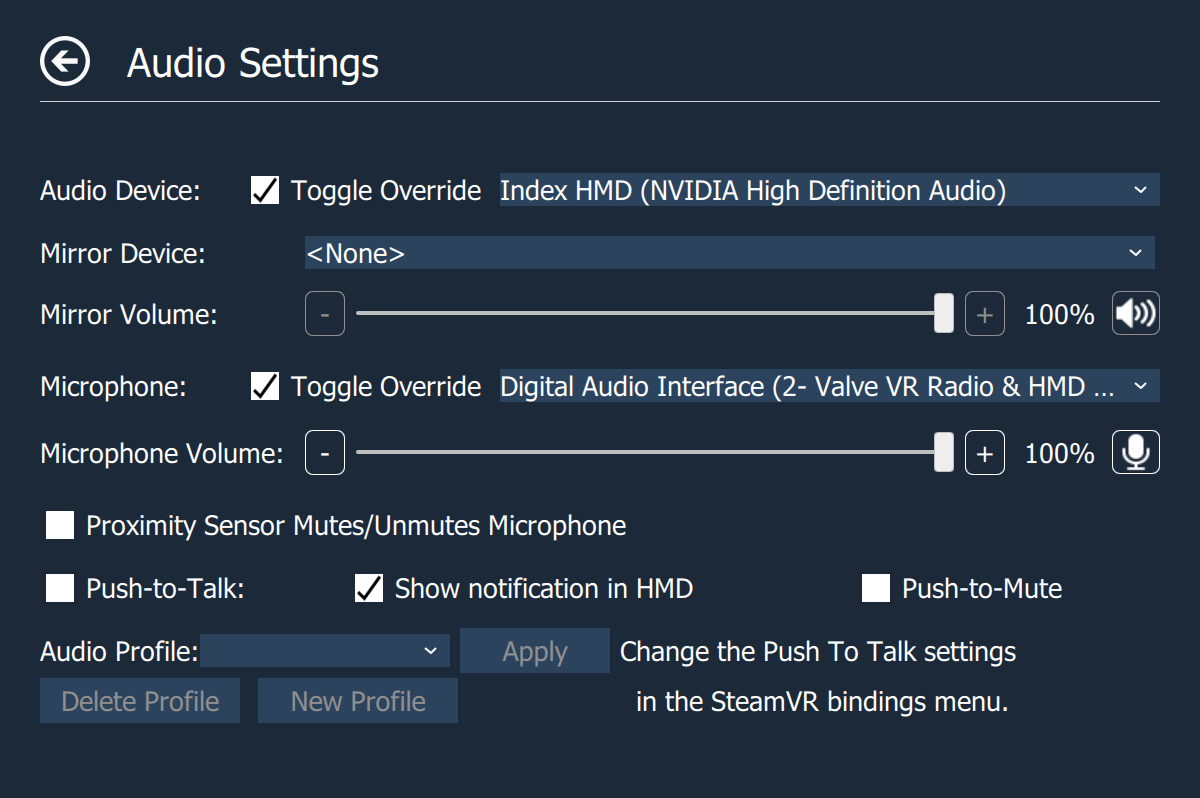
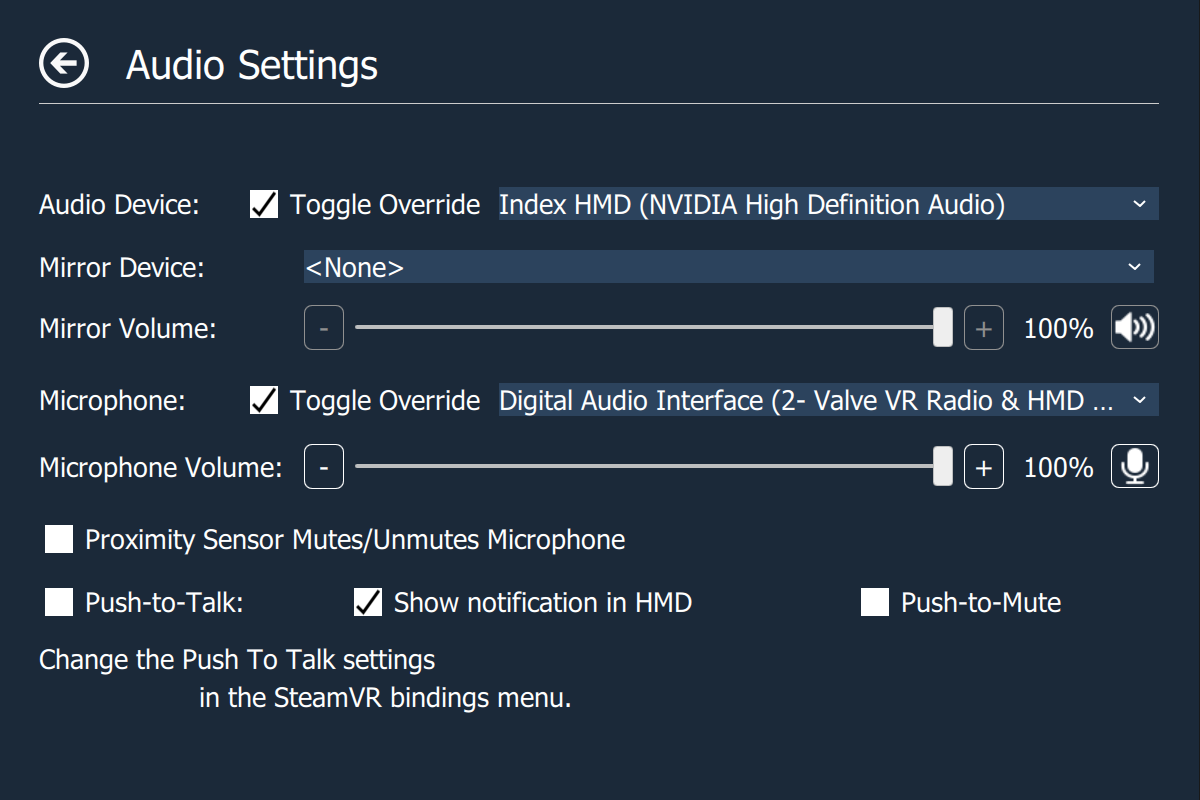
hid audio profiles

diff --git a/src/res/qml/audio_page/profiles/ProfileButtons.qml b/src/res/qml/audio_page/profiles/ProfileButtons.qml
@@ -25,6 +25,7 @@ ColumnLayout {
         MyText {
             Layout.preferredWidth: 150
             text: "Audio Profile:"
+            visible: false
         }
 
         MyComboBox {
@@ -32,6 +33,7 @@ ColumnLayout {
             Layout.preferredWidth: 250
             model: [""]
             enabled: false
+            visible: false
             onCurrentIndexChanged: {
                 if (currentIndex > 0) {
                     audioApplyProfileButton.enabled = true
@@ -46,6 +48,7 @@ ColumnLayout {
         MyPushButton {
             id: audioApplyProfileButton
             enabled: false
+            visible: false
             Layout.preferredWidth: 150
             text: "Apply"
             onClicked: {
@@ -66,6 +69,7 @@ ColumnLayout {
         MyPushButton {
             id: audioDeleteProfileButton
             enabled: false
+            visible: false
             Layout.preferredWidth: 200
             text: "Delete Profile"
             onClicked: {
@@ -77,6 +81,7 @@ ColumnLayout {
         }
         MyPushButton {
             enabled: false
+            visible: false
             Layout.preferredWidth: 200
             text: "New Profile"
             onClicked: {
